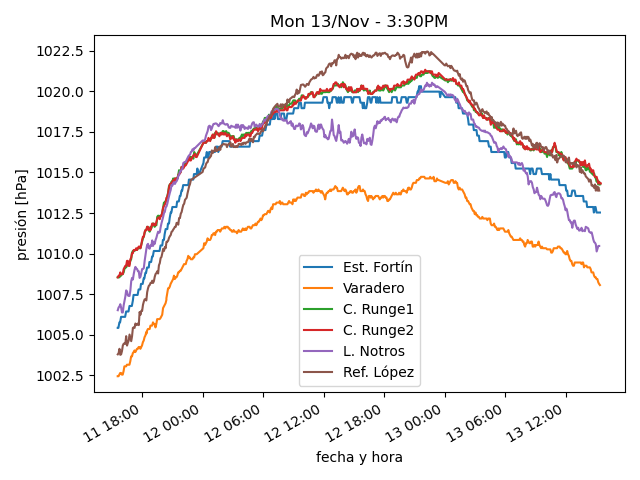
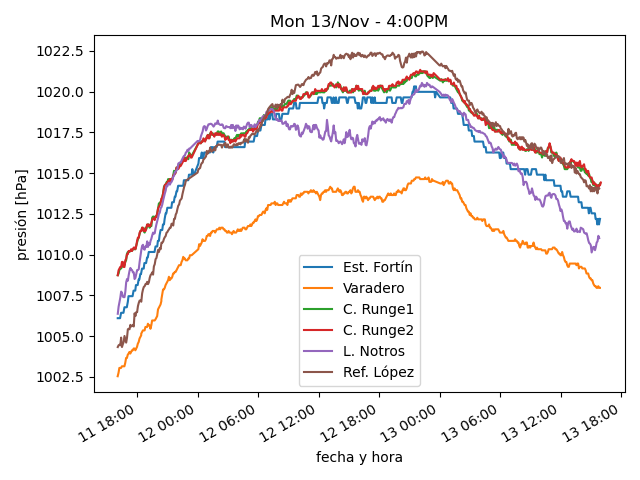
actualiza datos

diff --git a/estaciones/estacion6.html b/estaciones/estacion6.html
@@ -18,37 +18,37 @@
     </tr>
     <tr>
      <td class="stats_data">
-      3:20PM
+      3:50PM
      </td>
     </tr>
     <tr>
      <td class="stats_data">
-      0.6⁰C
+      -0.1⁰C
      </td>
     </tr>
     <tr>
      <td class="stats_data">
-      -0.8⁰C
+      -0.9⁰C
      </td>
     </tr>
     <tr>
      <td class="stats_data">
-      90.0%
+      94.0%
      </td>
     </tr>
     <tr>
      <td class="stats_data">
-      1015.27hPa
+      1015.44hPa
      </td>
     </tr>
     <tr>
      <td class="stats_data">
-      11.3/27.4 km/hr NE
+      12.9/29.0 km/hr NE
      </td>
     </tr>
     <tr>
      <td class="stats_data">
-      0.76 / 0.51 mm
+      1.02 / 0.51 mm
      </td>
     </tr>
     <tr>
@@ -58,7 +58,7 @@
     </tr>
     <tr>
      <td class="stats_data">
-      907.0 W/m²
+      897.0 W/m²
      </td>
     </tr>
    </tbody>

diff --git a/estaciones/estacion1.html b/estaciones/estacion1.html
@@ -18,32 +18,32 @@
     </tr>
     <tr>
      <td class="stats_data">
-      3:24PM
+      3:54PM
      </td>
     </tr>
     <tr>
      <td class="stats_data">
-      9.9⁰C
+      10.4⁰C
      </td>
     </tr>
     <tr>
      <td class="stats_data">
-      2.5⁰C
+      2.0⁰C
      </td>
     </tr>
     <tr>
      <td class="stats_data">
-      60.0%
+      56.0%
      </td>
     </tr>
     <tr>
      <td class="stats_data">
-      1012.53hPa
+      1012.19hPa
      </td>
     </tr>
     <tr>
      <td class="stats_data">
-      33.3/45.1 km/hr WSW
+      18.3/49.4 km/hr W
      </td>
     </tr>
     <tr>
@@ -53,12 +53,12 @@
     </tr>
     <tr>
      <td class="stats_data">
-      5.4
+      4.6
      </td>
     </tr>
     <tr>
      <td class="stats_data">
-      911.0 W/m²
+      838.0 W/m²
      </td>
     </tr>
    </tbody>

diff --git a/estaciones/estacion3.html b/estaciones/estacion3.html
@@ -18,32 +18,32 @@
     </tr>
     <tr>
      <td class="stats_data">
-      3:24PM
+      3:54PM
      </td>
     </tr>
     <tr>
      <td class="stats_data">
-      6.7⁰C
+      6.8⁰C
      </td>
     </tr>
     <tr>
      <td class="stats_data">
-      3.7⁰C
+      3.5⁰C
      </td>
     </tr>
     <tr>
      <td class="stats_data">
-      81.4%
+      79.8%
      </td>
     </tr>
     <tr>
      <td class="stats_data">
-      1002.54hPa
+      1002.64hPa
      </td>
     </tr>
     <tr>
      <td class="stats_data">
-      18.2/25.6 km/hr NW
+      12.0/19.4 km/hr WNW
      </td>
     </tr>
     <tr>
@@ -53,12 +53,12 @@
     </tr>
     <tr>
      <td class="stats_data">
-      5.0
+      4.0
      </td>
     </tr>
     <tr>
      <td class="stats_data">
-      502.7 W/m²
+      352.6 W/m²
      </td>
     </tr>
    </tbody>

diff --git a/estaciones/estacion2.html b/estaciones/estacion2.html
@@ -18,32 +18,32 @@
     </tr>
     <tr>
      <td class="stats_data">
-      3:24PM
+      3:54PM
      </td>
     </tr>
     <tr>
      <td class="stats_data">
-      8.0⁰C
+      8.1⁰C
      </td>
     </tr>
     <tr>
      <td class="stats_data">
-      4.6⁰C
+      4.9⁰C
      </td>
     </tr>
     <tr>
      <td class="stats_data">
-      79.4%
+      80.3%
      </td>
     </tr>
     <tr>
      <td class="stats_data">
-      1017.54hPa
+      1017.44hPa
      </td>
     </tr>
     <tr>
      <td class="stats_data">
-      33.9/39.6 km/hr NW
+      38.4/46.0 km/hr NW
      </td>
     </tr>
     <tr>
@@ -53,12 +53,12 @@
     </tr>
     <tr>
      <td class="stats_data">
-      9.0
+      7.0
      </td>
     </tr>
     <tr>
      <td class="stats_data">
-      940.0 W/m²
+      784.7 W/m²
      </td>
     </tr>
    </tbody>

diff --git a/estaciones/estacion4.html b/estaciones/estacion4.html
@@ -18,32 +18,32 @@
     </tr>
     <tr>
      <td class="stats_data">
-      3:29PM
+      3:59PM
      </td>
     </tr>
     <tr>
      <td class="stats_data">
-      7.3⁰C
+      7.5⁰C
      </td>
     </tr>
     <tr>
      <td class="stats_data">
-      3.1⁰C
+      2.9⁰C
      </td>
     </tr>
     <tr>
      <td class="stats_data">
-      74.8%
+      72.3%
      </td>
     </tr>
     <tr>
      <td class="stats_data">
-      1011.31hPa
+      1011.41hPa
      </td>
     </tr>
     <tr>
      <td class="stats_data">
-      6.6/10.7 km/hr S
+      5.7/8.5 km/hr SSW
      </td>
     </tr>
     <tr>
@@ -53,12 +53,12 @@
     </tr>
     <tr>
      <td class="stats_data">
-      3.0
+      2.0
      </td>
     </tr>
     <tr>
      <td class="stats_data">
-      328.3 W/m²
+      250.2 W/m²
      </td>
     </tr>
    </tbody>

diff --git a/estaciones/estacion5.html b/estaciones/estacion5.html
@@ -18,32 +18,32 @@
     </tr>
     <tr>
      <td class="stats_data">
-      3:20PM
+      3:50PM
      </td>
     </tr>
     <tr>
      <td class="stats_data">
-      9.6⁰C
+      8.4⁰C
      </td>
     </tr>
     <tr>
      <td class="stats_data">
-      3.9⁰C
+      3.7⁰C
      </td>
     </tr>
     <tr>
      <td class="stats_data">
-      68.0%
+      72.0%
      </td>
     </tr>
     <tr>
      <td class="stats_data">
-      1013.04hPa
+      1013.58hPa
      </td>
     </tr>
     <tr>
      <td class="stats_data">
-      0.0/2.6 km/hr N
+      0.0/3.5 km/hr N
      </td>
     </tr>
     <tr>
